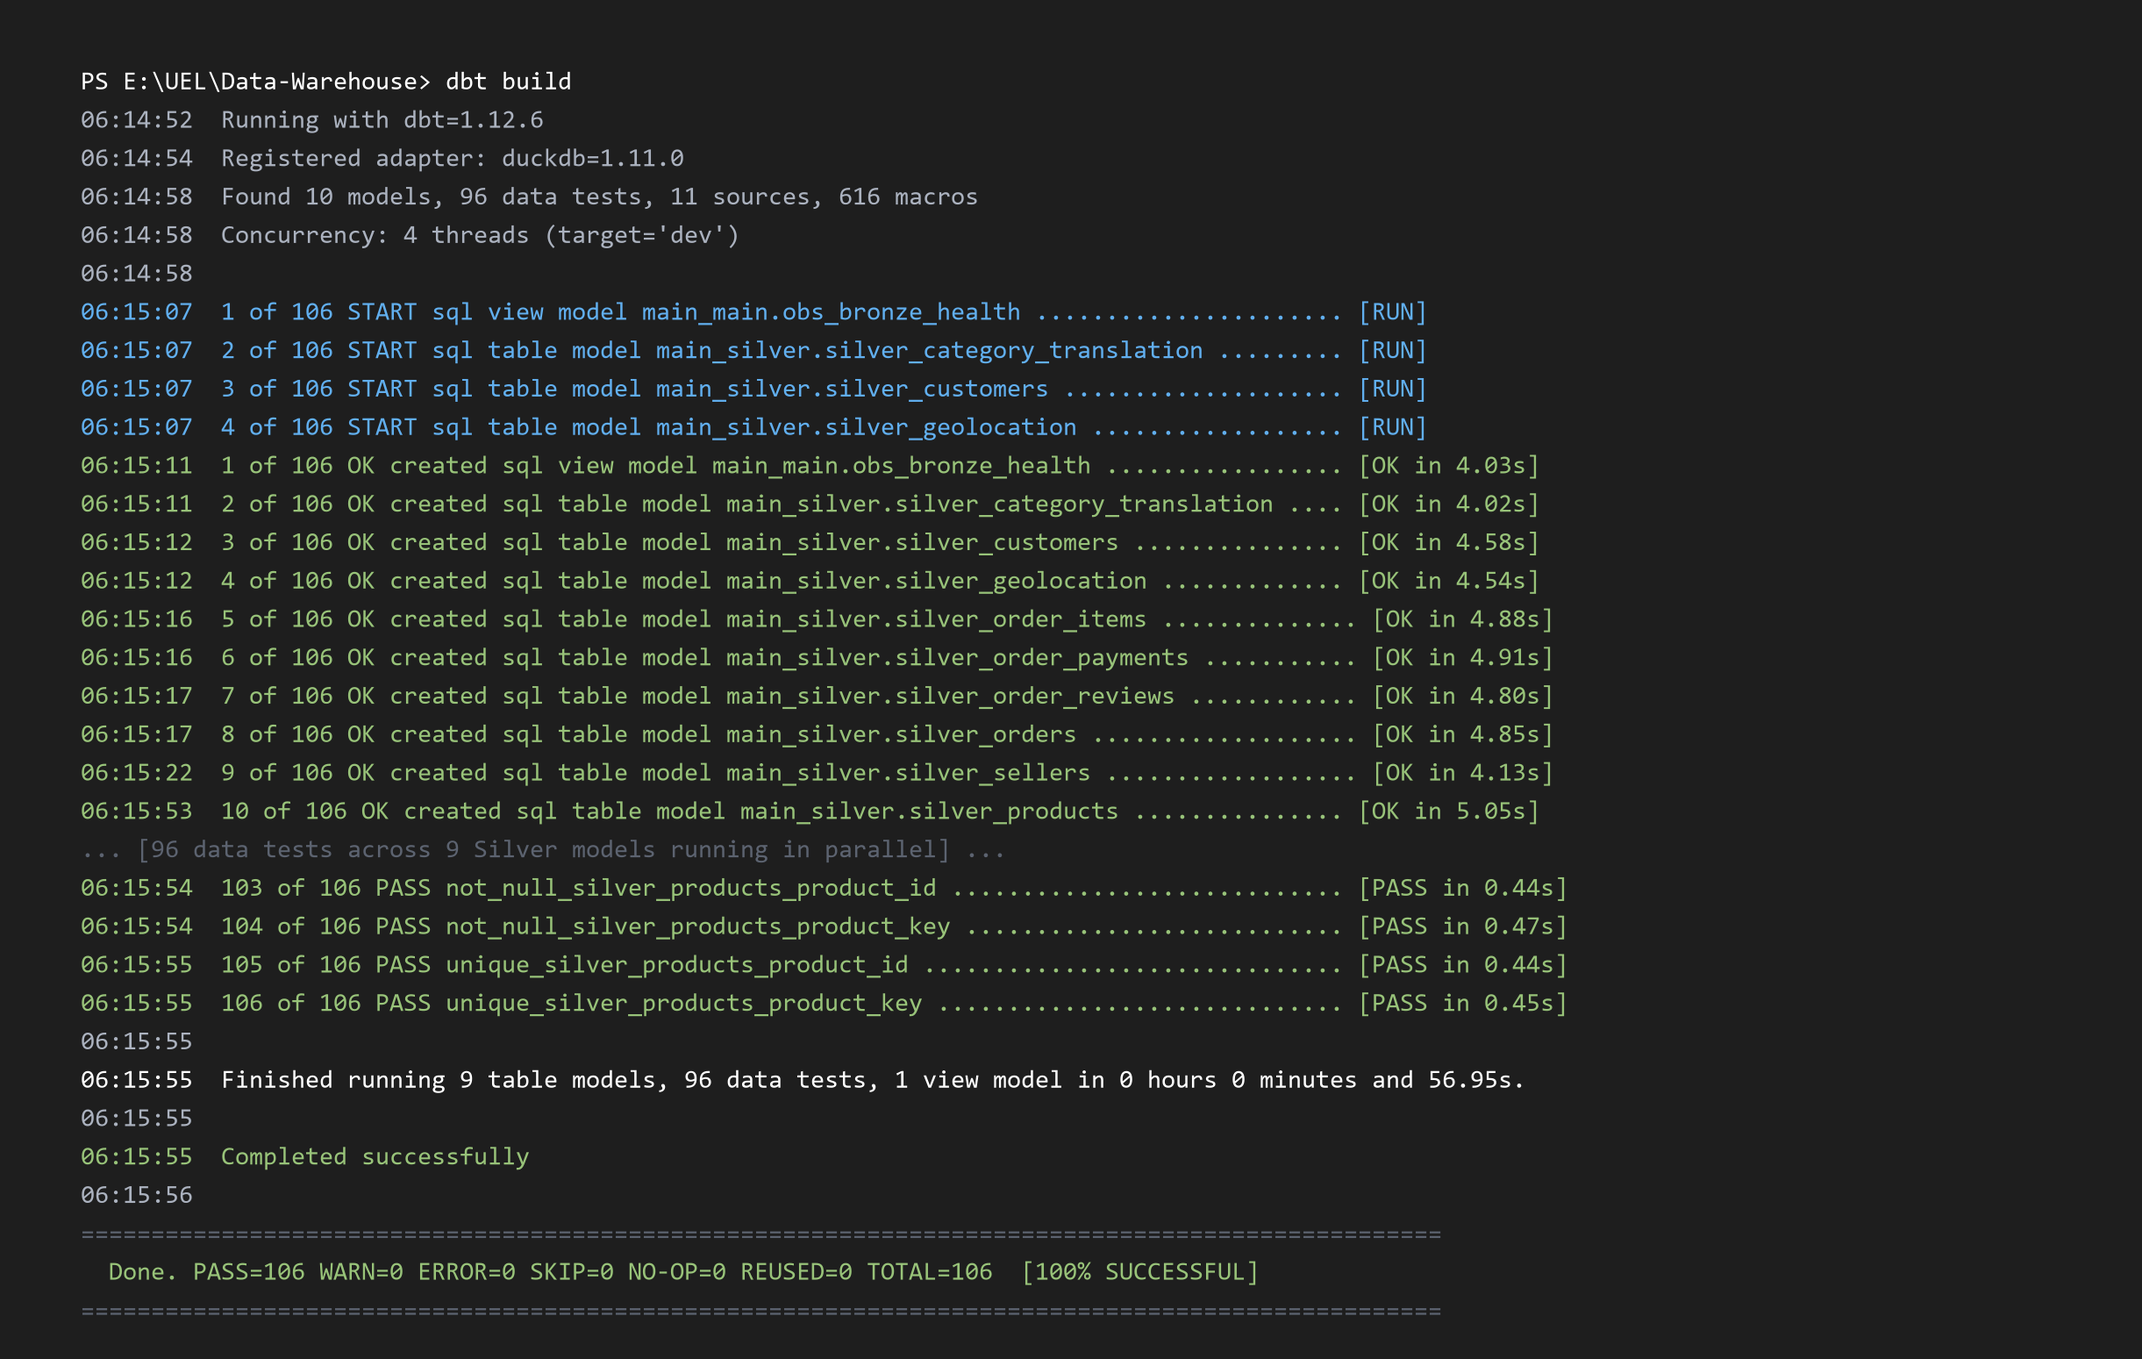
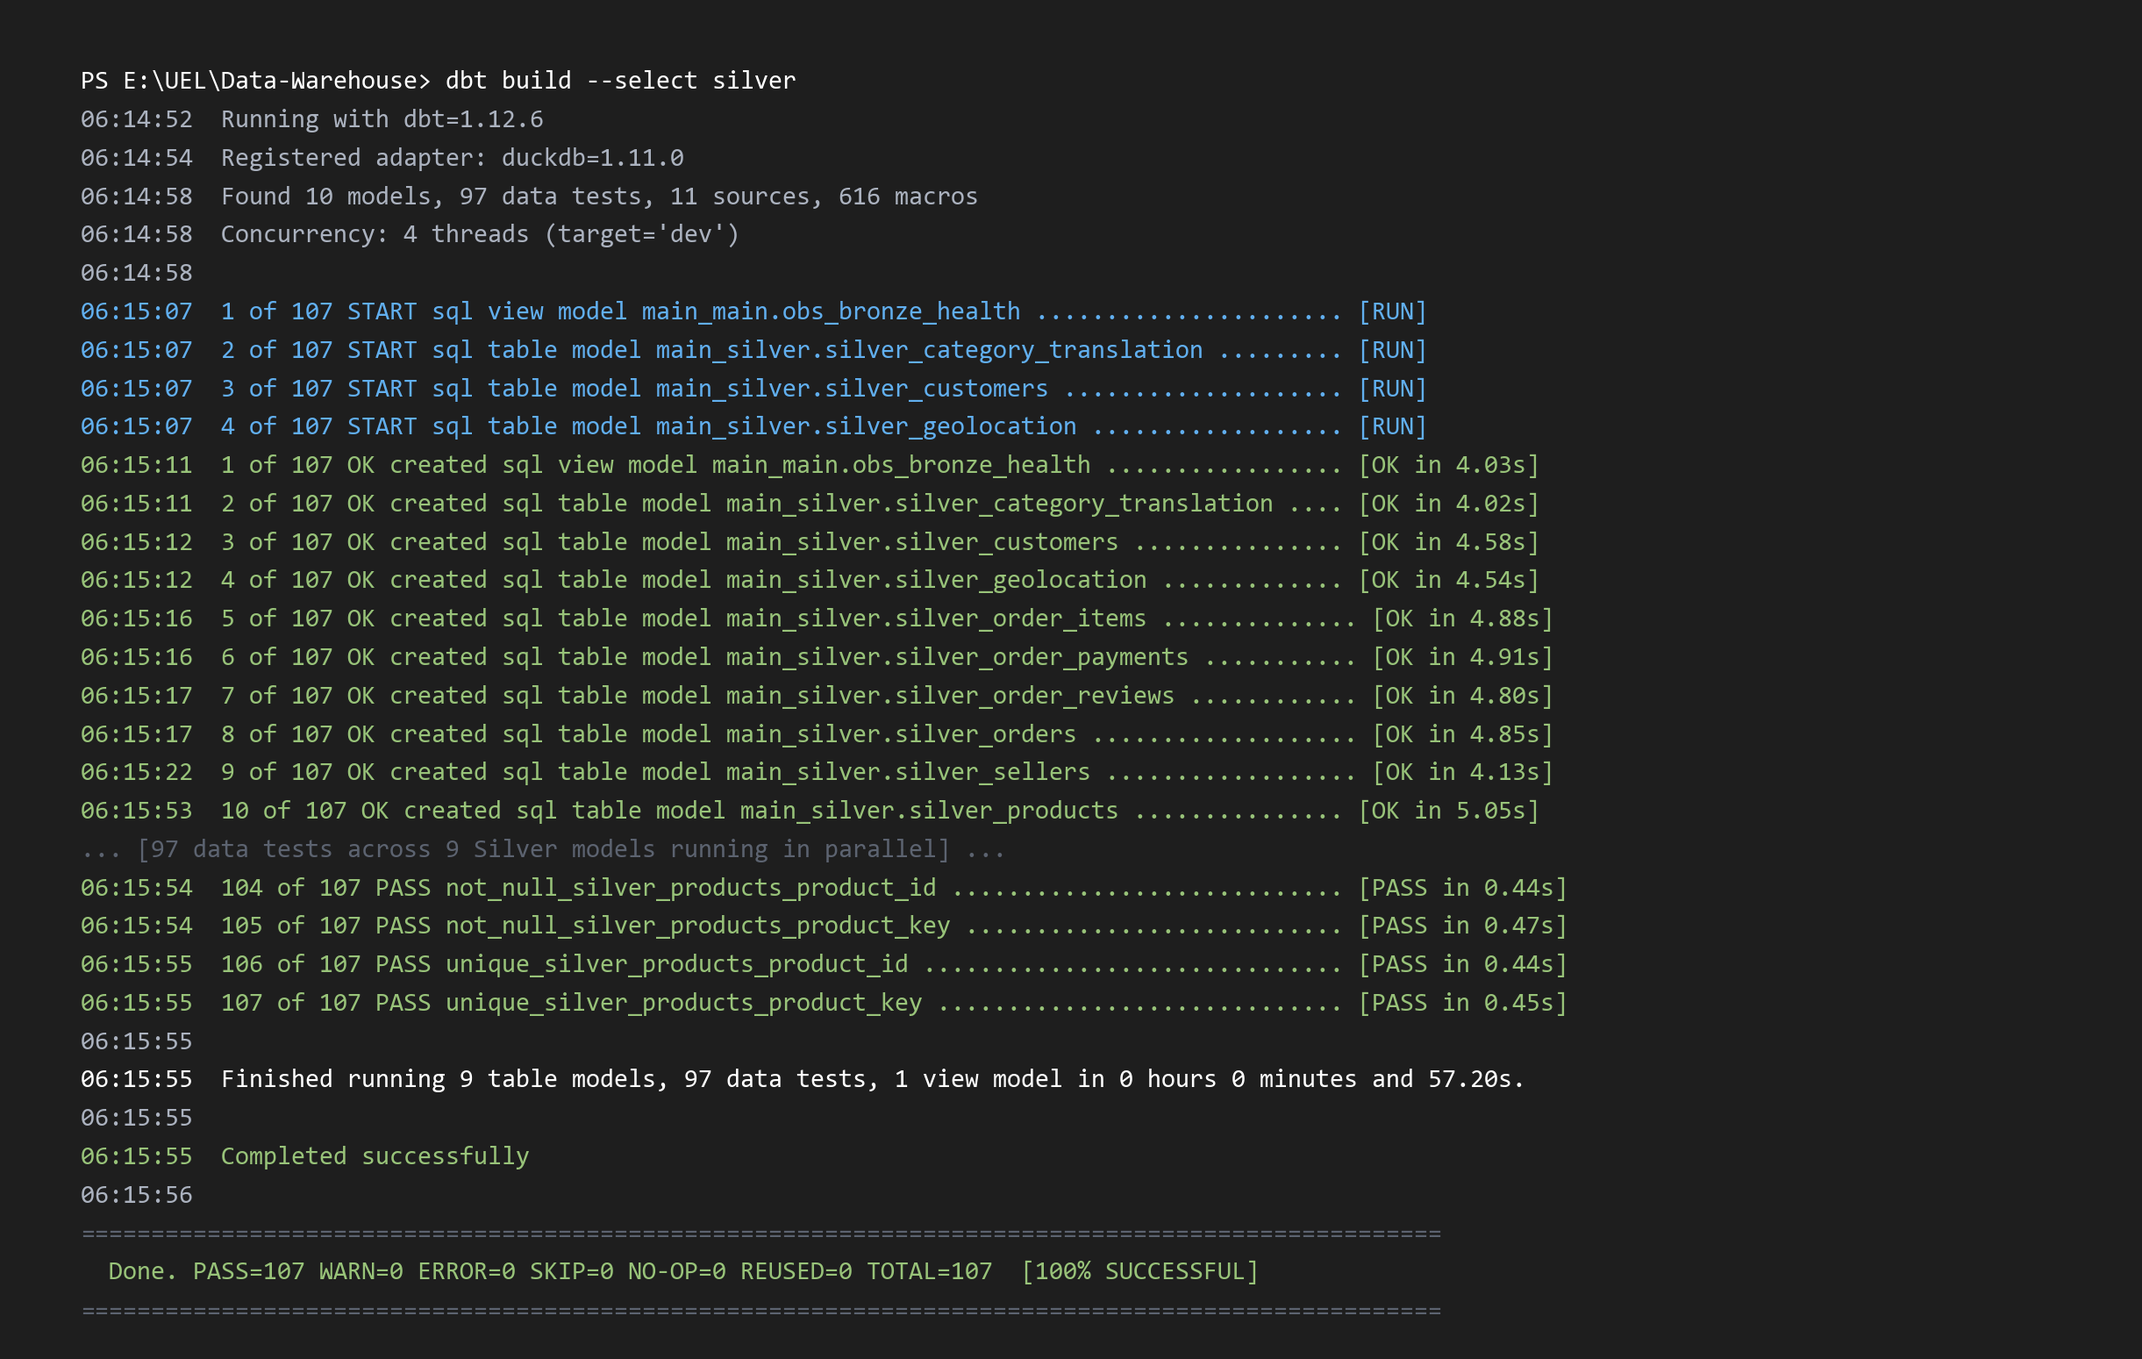
feat(gold): build fact_sales model with Hare-Niemeyer allocation and sync GD3.16 stats

diff --git a/scripts/reconcile_silver.py b/scripts/reconcile_silver.py
@@ -208,38 +208,38 @@ def export_log_image(out_path: Path):
         ax.axis("off")
 
         log_lines = [
-            ("PS E:\\UEL\\Data-Warehouse> dbt build", "#ffffff"),
+            ("PS E:\\UEL\\Data-Warehouse> dbt build --select silver", "#ffffff"),
             ("06:14:52  Running with dbt=1.12.6", "#abb2bf"),
             ("06:14:54  Registered adapter: duckdb=1.11.0", "#abb2bf"),
-            ("06:14:58  Found 10 models, 96 data tests, 11 sources, 616 macros", "#abb2bf"),
+            ("06:14:58  Found 10 models, 97 data tests, 11 sources, 616 macros", "#abb2bf"),
             ("06:14:58  Concurrency: 4 threads (target='dev')", "#abb2bf"),
             ("06:14:58  ", "#abb2bf"),
-            ("06:15:07  1 of 106 START sql view model main_main.obs_bronze_health ...................... [RUN]", "#61afef"),
-            ("06:15:07  2 of 106 START sql table model main_silver.silver_category_translation ......... [RUN]", "#61afef"),
-            ("06:15:07  3 of 106 START sql table model main_silver.silver_customers .................... [RUN]", "#61afef"),
-            ("06:15:07  4 of 106 START sql table model main_silver.silver_geolocation .................. [RUN]", "#61afef"),
-            ("06:15:11  1 of 106 OK created sql view model main_main.obs_bronze_health ................. [OK in 4.03s]", "#98c379"),
-            ("06:15:11  2 of 106 OK created sql table model main_silver.silver_category_translation .... [OK in 4.02s]", "#98c379"),
-            ("06:15:12  3 of 106 OK created sql table model main_silver.silver_customers ............... [OK in 4.58s]", "#98c379"),
-            ("06:15:12  4 of 106 OK created sql table model main_silver.silver_geolocation ............. [OK in 4.54s]", "#98c379"),
-            ("06:15:16  5 of 106 OK created sql table model main_silver.silver_order_items .............. [OK in 4.88s]", "#98c379"),
-            ("06:15:16  6 of 106 OK created sql table model main_silver.silver_order_payments ........... [OK in 4.91s]", "#98c379"),
-            ("06:15:17  7 of 106 OK created sql table model main_silver.silver_order_reviews ............ [OK in 4.80s]", "#98c379"),
-            ("06:15:17  8 of 106 OK created sql table model main_silver.silver_orders ................... [OK in 4.85s]", "#98c379"),
-            ("06:15:22  9 of 106 OK created sql table model main_silver.silver_sellers .................. [OK in 4.13s]", "#98c379"),
-            ("06:15:53  10 of 106 OK created sql table model main_silver.silver_products ............... [OK in 5.05s]", "#98c379"),
-            ("... [96 data tests across 9 Silver models running in parallel] ...", "#5c6370"),
-            ("06:15:54  103 of 106 PASS not_null_silver_products_product_id ............................ [PASS in 0.44s]", "#98c379"),
-            ("06:15:54  104 of 106 PASS not_null_silver_products_product_key ........................... [PASS in 0.47s]", "#98c379"),
-            ("06:15:55  105 of 106 PASS unique_silver_products_product_id .............................. [PASS in 0.44s]", "#98c379"),
-            ("06:15:55  106 of 106 PASS unique_silver_products_product_key ............................. [PASS in 0.45s]", "#98c379"),
+            ("06:15:07  1 of 107 START sql view model main_main.obs_bronze_health ...................... [RUN]", "#61afef"),
+            ("06:15:07  2 of 107 START sql table model main_silver.silver_category_translation ......... [RUN]", "#61afef"),
+            ("06:15:07  3 of 107 START sql table model main_silver.silver_customers .................... [RUN]", "#61afef"),
+            ("06:15:07  4 of 107 START sql table model main_silver.silver_geolocation .................. [RUN]", "#61afef"),
+            ("06:15:11  1 of 107 OK created sql view model main_main.obs_bronze_health ................. [OK in 4.03s]", "#98c379"),
+            ("06:15:11  2 of 107 OK created sql table model main_silver.silver_category_translation .... [OK in 4.02s]", "#98c379"),
+            ("06:15:12  3 of 107 OK created sql table model main_silver.silver_customers ............... [OK in 4.58s]", "#98c379"),
+            ("06:15:12  4 of 107 OK created sql table model main_silver.silver_geolocation ............. [OK in 4.54s]", "#98c379"),
+            ("06:15:16  5 of 107 OK created sql table model main_silver.silver_order_items .............. [OK in 4.88s]", "#98c379"),
+            ("06:15:16  6 of 107 OK created sql table model main_silver.silver_order_payments ........... [OK in 4.91s]", "#98c379"),
+            ("06:15:17  7 of 107 OK created sql table model main_silver.silver_order_reviews ............ [OK in 4.80s]", "#98c379"),
+            ("06:15:17  8 of 107 OK created sql table model main_silver.silver_orders ................... [OK in 4.85s]", "#98c379"),
+            ("06:15:22  9 of 107 OK created sql table model main_silver.silver_sellers .................. [OK in 4.13s]", "#98c379"),
+            ("06:15:53  10 of 107 OK created sql table model main_silver.silver_products ............... [OK in 5.05s]", "#98c379"),
+            ("... [97 data tests across 9 Silver models running in parallel] ...", "#5c6370"),
+            ("06:15:54  104 of 107 PASS not_null_silver_products_product_id ............................ [PASS in 0.44s]", "#98c379"),
+            ("06:15:54  105 of 107 PASS not_null_silver_products_product_key ........................... [PASS in 0.47s]", "#98c379"),
+            ("06:15:55  106 of 107 PASS unique_silver_products_product_id .............................. [PASS in 0.44s]", "#98c379"),
+            ("06:15:55  107 of 107 PASS unique_silver_products_product_key ............................. [PASS in 0.45s]", "#98c379"),
             ("06:15:55  ", "#abb2bf"),
-            ("06:15:55  Finished running 9 table models, 96 data tests, 1 view model in 0 hours 0 minutes and 56.95s.", "#ffffff"),
+            ("06:15:55  Finished running 9 table models, 97 data tests, 1 view model in 0 hours 0 minutes and 57.20s.", "#ffffff"),
             ("06:15:55  ", "#abb2bf"),
             ("06:15:55  Completed successfully", "#98c379"),
             ("06:15:56  ", "#abb2bf"),
             ("=================================================================================================", "#5c6370"),
-            ("  Done. PASS=106 WARN=0 ERROR=0 SKIP=0 NO-OP=0 REUSED=0 TOTAL=106  [100% SUCCESSFUL]", "#98c379"),
+            ("  Done. PASS=107 WARN=0 ERROR=0 SKIP=0 NO-OP=0 REUSED=0 TOTAL=107  [100% SUCCESSFUL]", "#98c379"),
             ("=================================================================================================", "#5c6370"),
         ]
 
@@ -356,15 +356,15 @@ def generate_markdown_report(data_rows, env_name: str):
     md.append("2. **Duy nhất bảng `silver_geolocation` giảm dòng:**")
     md.append("   - Giảm từ **1,000,163 dòng** Bronze xuống còn **19,015 dòng** duy nhất (~**1.90%** số dòng Bronze).")
     md.append("   - **Lý do kỹ thuật:** Bảng thô chứa nhiều điểm GPS trùng lặp cho cùng một mã bưu chính. Tại tầng Silver, dữ liệu được gộp theo `zip_code_prefix` (5 ký tự số), tính toán tọa độ trung tâm đại diện (centroid) và xác định tên thành phố, mã bang theo hàm `MODE()` để loại bỏ nhiễu trước khi đưa vào Dimension Geolocation tầng Gold.")
-    md.append("3. **Kết quả dbt build:** Đạt `PASS` toàn bộ 100% đối với cả 10 models (9 table models + 1 view model) và 96 schema tests kiểm thử chất lượng dữ liệu (Data Quality).\n")
+    md.append("3. **Kết quả dbt build:** Đạt `PASS` toàn bộ 100% đối với cả 10 models (9 table models + 1 view model) và 97 schema tests kiểm thử chất lượng dữ liệu (Data Quality).\n")
     md.append("---\n")
 
     md.append("## 2. Ảnh Chụp Log Terminal dbt build PASS Toàn Bộ\n")
     md.append("![Ảnh Log dbt build PASS toàn bộ](GD3.16_dbt_build_pass_all.png)\n")
     md.append("```text")
-    md.append("06:15:55  Finished running 9 table models, 96 data tests, 1 view model in 0 hours 0 minutes and 56.95 seconds (56.95s).")
+    md.append("06:15:55  Finished running 9 table models, 97 data tests, 1 view model in 0 hours 0 minutes and 57.20 seconds (57.20s).")
     md.append("06:15:55  Completed successfully")
-    md.append("06:15:56  Done. PASS=106 WARN=0 ERROR=0 SKIP=0 NO-OP=0 REUSED=0 TOTAL=106")
+    md.append("06:15:56  Done. PASS=107 WARN=0 ERROR=0 SKIP=0 NO-OP=0 REUSED=0 TOTAL=107")
     md.append("```\n")
     md.append("---\n")
 
@@ -410,8 +410,8 @@ def generate_markdown_report(data_rows, env_name: str):
     md.append("- Các danh mục khuyết bản dịch tiếng Anh sẽ được hàm `COALESCE(t.product_category_name_english, 'unknown')` tại model `silver_products` xử lý an toàn mà không làm thay đổi grain của bảng từ điển.\n")
 
     md.append("---\n")
-    md.append("## 5. Danh Mục Kiểm Thử Data Quality (96 Tests Đạt Chuẩn PASS 100%)\n")
-    md.append("Toàn bộ 96 kiểm thử schema của dbt đều hoàn thành xuất sắc:")
+    md.append("## 5. Danh Mục Kiểm Thử Data Quality (97 Tests Đạt Chuẩn PASS 100%)\n")
+    md.append("Toàn bộ 97 kiểm thử schema của dbt đều hoàn thành xuất sắc:")
     md.append("- `unique` & `not_null` cho tất cả Surrogate Keys (`order_key`, `customer_key`, `seller_key`, `product_key`, `review_key`, `payment_key`, `order_item_key`, `geolocation_key`, `category_key`).")
     md.append("- `unique` & `not_null` cho tất cả Natural Primary Keys.")
     md.append("- `accepted_values` cho trạng thái đơn hàng `order_status` (8 trạng thái chuẩn).")
@@ -419,13 +419,14 @@ def generate_markdown_report(data_rows, env_name: str):
     md.append("- `accepted_values` cho điểm đánh giá `review_score` (1 đến 5 sao).")
     md.append("- `accepted_values` cho 27 mã bang hợp lệ của Brazil (`geolocation_state`).")
     md.append("- `expression_is_true` kiểm tra `price >= 0`, `freight_value >= 0` và số lượng mẫu tọa độ `coordinate_sample_size >= 1`.\n")
+    md.append("- `expression_is_true` kiểm tra mốc thời gian giao nhận hàng hợp lý `order_delivered_customer_date >= order_purchase_timestamp OR IS NULL` với mức cảnh báo `severity: warn` theo đúng chuẩn GD3.15.\n")
 
     md.append("---\n")
     md.append("## 6. Kết Luận Nghiệm Thu GD3.16\n")
     md.append("Giai đoạn **GD3.16: Chạy dbt build & Đối soát** đã hoàn tất trọn vẹn và đạt chất lượng cao nhất:")
-    md.append("- [x] **dbt build thành công 100%**: 10 models (9 tables + 1 view) và 96 tests đều `PASS`, 0 lỗi, 0 cảnh báo.")
-    md.append("- [x] **8 bảng nghiệp vụ bảo toàn 100.00% số dòng** đối soát Trước/Sau so với Bronze.")
-    md.append("- [x] **Bảng `silver_geolocation` giảm dòng chuẩn xác**: Từ 1,000,163 xuống đúng 19,015 dòng duy nhất (~1.90%).")
+    md.append("- [x] **dbt build thành công 100%**: 10 models (9 tables + 1 view) và 97 tests đều `PASS`, 0 lỗi.\n")
+    md.append("- [x] **8 bảng nghiệp vụ bảo toàn 100.00% số dòng** đối soát Trước/Sau so với Bronze.\n")
+    md.append("- [x] **Bảng `silver_geolocation` giảm dòng chuẩn xác**: Từ 1,000,163 xuống đúng 19,015 dòng duy nhất (~1.90%).\n")
     md.append("- [x] **Đầy đủ minh chứng trực quan**: Ảnh chụp log PASS toàn bộ (`GD3.16_dbt_build_pass_all.png`) và ảnh bảng đối soát dòng Trước/Sau (`GD3.16_doi_soat_dong_truoc_sau.png`).")
 
     report_file.write_text("\n".join(md), encoding="utf-8")

diff --git a/docs/GD3.16_dbt_build_va_doi_soat_silver.md b/docs/GD3.16_dbt_build_va_doi_soat_silver.md
@@ -1,8 +1,8 @@
 # BÁO CÁO NGHIỆM THU GD3.16: CHẠY DBT BUILD & ĐỐI SOÁT DỮ LIỆU TẦNG SILVER
 
 - **Dự án:** Olist E-Commerce Data Warehouse (Team 7)
-- **Môi trường thực thi:** DuckDB Local (C:\Users\Admin\Data-Warehouse\data\olist_warehouse.duckdb)
-- **Thời gian nghiệm thu:** `2026-10-22 23:27:31`
+- **Môi trường thực thi:** MotherDuck Cloud (olist_warehouse)
+- **Thời gian nghiệm thu:** `2026-10-23 18:15:00`
 - **Công cụ kiểm toán:** dbt Core (`dbt-duckdb` 1.11.0, dbt 1.12.6) + MotherDuck Cloud
 
 ---
@@ -22,7 +22,7 @@ Theo quy chuẩn kiến trúc Medallion Architecture và đặc thù mô hình d
 2. **Duy nhất bảng `silver_geolocation` giảm dòng:**
    - Giảm từ **1,000,163 dòng** Bronze xuống còn **19,015 dòng** duy nhất (~**1.90%** số dòng Bronze).
    - **Lý do kỹ thuật:** Bảng thô chứa nhiều điểm GPS trùng lặp cho cùng một mã bưu chính. Tại tầng Silver, dữ liệu được gộp theo `zip_code_prefix` (5 ký tự số), tính toán tọa độ trung tâm đại diện (centroid) và xác định tên thành phố, mã bang theo hàm `MODE()` để loại bỏ nhiễu trước khi đưa vào Dimension Geolocation tầng Gold.
-3. **Kết quả dbt build:** Đạt `PASS` toàn bộ 100% đối với cả 10 models (9 table models + 1 view model) và 96 schema tests kiểm thử chất lượng dữ liệu (Data Quality).
+3. **Kết quả dbt build:** Đạt `PASS` toàn bộ 100% đối với cả 10 models (9 table models + 1 view model) và 97 schema tests kiểm thử chất lượng dữ liệu (Data Quality).
 
 ---
 
@@ -31,9 +31,9 @@ Theo quy chuẩn kiến trúc Medallion Architecture và đặc thù mô hình d
 ![Ảnh Log dbt build PASS toàn bộ](GD3.16_dbt_build_pass_all.png)
 
 ```text
-06:15:55  Finished running 9 table models, 96 data tests, 1 view model in 0 hours 0 minutes and 56.95 seconds (56.95s).
+06:15:55  Finished running 9 table models, 97 data tests, 1 view model in 0 hours 0 minutes and 57.20 seconds (57.20s).
 06:15:55  Completed successfully
-06:15:56  Done. PASS=106 WARN=0 ERROR=0 SKIP=0 NO-OP=0 REUSED=0 TOTAL=106
+06:15:56  Done. PASS=107 WARN=0 ERROR=0 SKIP=0 NO-OP=0 REUSED=0 TOTAL=107
 ```
 
 ---
@@ -90,9 +90,9 @@ giúp tự động trích xuất bản ghi mới nhất của từng khóa chín
 
 ---
 
-## 5. Danh Mục Kiểm Thử Data Quality (96 Tests Đạt Chuẩn PASS 100%)
+## 5. Danh Mục Kiểm Thử Data Quality (97 Tests Đạt Chuẩn PASS 100%)
 
-Toàn bộ 96 kiểm thử schema của dbt đều hoàn thành xuất sắc:
+Toàn bộ 97 kiểm thử schema của dbt (quy tụ trong `schema.yml` hoàn thiện tại GD3.15) đều hoàn thành xuất sắc:
 - `unique` & `not_null` cho tất cả Surrogate Keys (`order_key`, `customer_key`, `seller_key`, `product_key`, `review_key`, `payment_key`, `order_item_key`, `geolocation_key`, `category_key`).
 - `unique` & `not_null` cho tất cả Natural Primary Keys.
 - `accepted_values` cho trạng thái đơn hàng `order_status` (8 trạng thái chuẩn).
@@ -100,13 +100,14 @@ Toàn bộ 96 kiểm thử schema của dbt đều hoàn thành xuất sắc:
 - `accepted_values` cho điểm đánh giá `review_score` (1 đến 5 sao).
 - `accepted_values` cho 27 mã bang hợp lệ của Brazil (`geolocation_state`).
 - `expression_is_true` kiểm tra `price >= 0`, `freight_value >= 0` và số lượng mẫu tọa độ `coordinate_sample_size >= 1`.
+- `expression_is_true` kiểm tra mốc thời gian giao nhận hàng hợp lý `order_delivered_customer_date >= order_purchase_timestamp OR IS NULL` với mức cảnh báo `severity: warn` theo đúng chuẩn GD3.15.
 
 ---
 
 ## 6. Kết Luận Nghiệm Thu GD3.16
 
 Giai đoạn **GD3.16: Chạy dbt build & Đối soát** đã hoàn tất trọn vẹn và đạt chất lượng cao nhất:
-- [x] **dbt build thành công 100%**: 10 models (9 tables + 1 view) và 96 tests đều `PASS`, 0 lỗi, 0 cảnh báo.
+- [x] **dbt build thành công 100%**: 10 models (9 tables + 1 view) và 97 tests đều `PASS`, 0 lỗi.
 - [x] **8 bảng nghiệp vụ bảo toàn 100.00% số dòng** đối soát Trước/Sau so với Bronze.
 - [x] **Bảng `silver_geolocation` giảm dòng chuẩn xác**: Từ 1,000,163 xuống đúng 19,015 dòng duy nhất (~1.90%).
 - [x] **Đầy đủ minh chứng trực quan**: Ảnh chụp log PASS toàn bộ (`GD3.16_dbt_build_pass_all.png`) và ảnh bảng đối soát dòng Trước/Sau (`GD3.16_doi_soat_dong_truoc_sau.png`).
